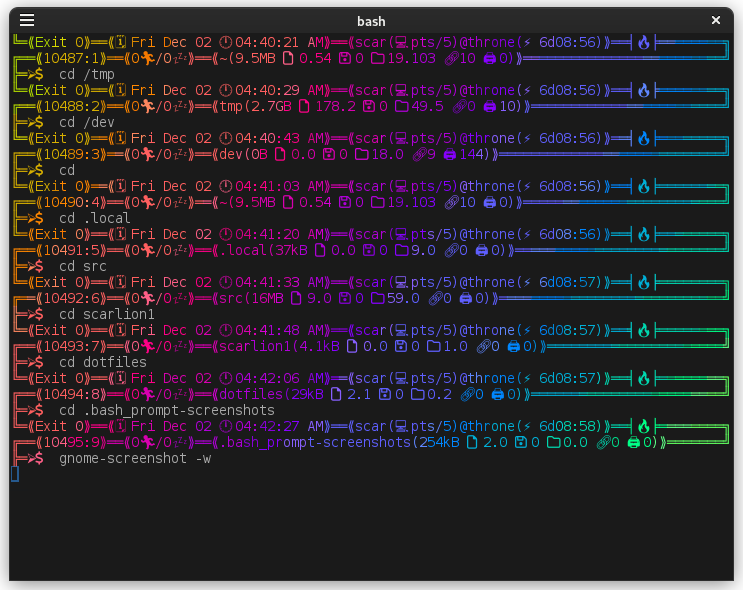
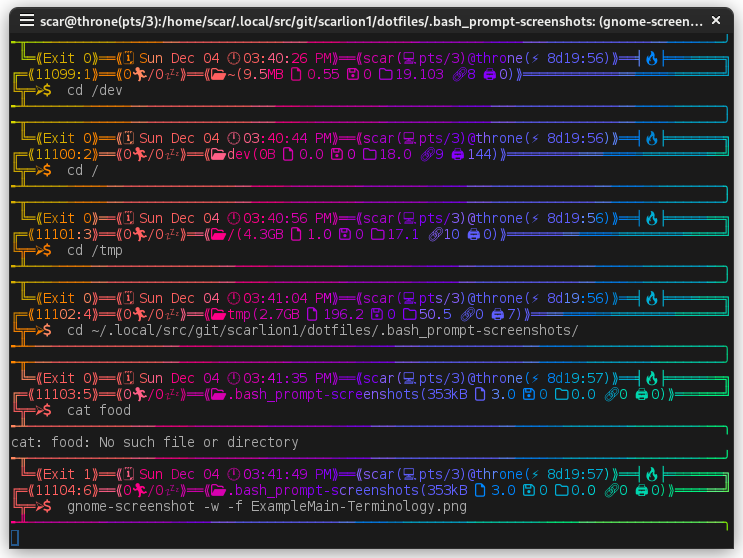
Added more rainbow and ridiculousness. Added color to linux console since it supports it. Added title and current running command to terminal windows. Updated README and screenshots.

Changed region(s): [[0.0, 0.0, 0.9906, 0.9749]]

diff --git a/README.md b/README.md
@@ -15,7 +15,13 @@ Should it now?  Actually, even the most basic color helps me find where a comman
 
 This is my ridiculous and over-the-top, yet still beautiful, Bash shell prompt.  I started out with Kevin's *rainbow-bash-prompt*[^1] 'and kept "improving" it.  It's fully rainbow in 24-bit color, using jaseg's *lolcat*[^2], each prompt gradually moving across the color spectrum.  It features UTF-8 characters and emoji, because it's nearly 2023 so why not.  I'm from the 90's though, so had to throwback to some box drawing characters.  I'm actually surprised it hasn't turned into a hot mess; everything displays quite nicely in *Gnome Terminal*.  I added fallback options too for when not in a graphical environment.
 
-The first line shows the exit status/code of the last command, date and time of completion of last command, current user, user's tty, short hostname, and the system's uptime.  It also features an eternal flame to make sure things keep running.  The second line shows the size of your command history, the command number for the current session, running jobs, sleeping jobs, current directory, and stats about the directory's contents: size of the data just in this directory (not including subdirectories), number of regular and hidden files, number of programs/executables, number of directories and hidden directories, number of links (visible plus hidden), and number of special files (block devices, character devices, pipes, and sockets)).  Finally, the third line is where you can actually enter your command!
+The first line shows the exit status/code of the last command, date and time of completion of last command, current user, user's tty, short hostname, and the system's uptime.  It also features an eternal flame to make sure things keep running.
+
+The second line shows the length of your command history, the command number for the current session, running jobs, sleeping jobs, current directory, and stats about the directory's contents: size of the data in this directory (not including subdirectories), number of regular and hidden files, number of programs/executables, number of directories and hidden directories, number of links (visible plus hidden), and number of special files (block devices, character devices, pipes, and sockets)).
+
+Finally, the third line is where you can actually enter your command!
+
+Everything is rounded off with fourth and fifth lines, giving the illusion of the prompt dropping the output of your command, only to gather it back up into the next prompt.  And in case your command doesn't have any output, the lines will connect nicely together to make sure everything continues.
 
 | ![Screenshot of main prompt in Gnome Terminal](.bash_prompt-screenshots/ExampleMain-GnomeTerminal.png?raw=true "Main prompt in Gnome Terminal") |
 | - |
@@ -25,12 +31,12 @@ The first line shows the exit status/code of the last command, date and time of 
 | - |
 | Main prompt in Terminology |
 
-| ![Screenshot of fallback prompt in Debian Console](.bash_prompt-screenshots/ExampleFallback-DebianConsole.png?raw=true "Fallback prompt in Debian Console") |
+| ![Screenshot of fallback prompt in Debian Console](.bash_prompt-screenshots/Example-DebianConsole.png?raw=true "Fallback prompt in Debian Console") |
 | - |
 | Fallback prompt in Debian Console |
 
 
-The most difficult part by far was figuring out how to pad the right ends of the first two lines so they remained connected, but I got it!  They will adapt to differing lengths of data displayed in the prompt as well as resizes of the terminal.  It's quite hacked together, with different snippets and ideas found over the Internet!  With the color/UTF-8 version, I had to manually offset the calculated padding for each line by a certain amount.  I think it has something to do with the Spiral Calendar (first on line 1) and Printer (last on line 2), since I had to add some spaces after those so the following text wasn't covered by the icon.  Either way, the implementation is quite consistent.  One problem I've seen so far is when the session command number increases from 9 to 10.  Another problem occurs if you descend into a directory with a really long name, forcing the second line to wrap.  Fortunately, these issues are quickly resolved by entering the next command or resizing your terminal (and entering the next command), respectively.
+The most difficult part by far was figuring out how to pad the right ends of the first two lines so they remained connected, but I got it!  They will adapt to differing lengths of data displayed in the prompt as well as resizes of the terminal.  It's quite hacked together, with different snippets and ideas found over the Internet!  With the color/UTF-8 version, I had to manually offset the calculated padding for each line by a certain amount.  I think it has something to do with the Spiral Calendar (first on line 1) and Printer (last on line 2), since I had to add some spaces after those so the following text wasn't covered by the icon.  Either way, the implementation is quite consistent.  One problem I've seen so far is when the session command number increases from 9 to 10 (and 99 to 100, etc.).  Another problem occurs if you descend into a directory with a really long name, forcing the second line to wrap.  Fortunately, these issues are quickly resolved by entering the next command or resizing your terminal (and entering the next command), respectively.
 
 This's my first time sharing something on github, so I'll probably now want to add repository status & info to the prompt somehow...
 
@@ -45,13 +51,16 @@ My *.bash_prompt* uses the following programs:
 - Non-standard
     - *lolcat* (jaseg's version[^2], specifically) (linked as `lolcat-c`)
 - Standard
-    - *date* (GNU *coreutils*)
+    - *cut* (GNU *coreutils*)
+    - *date* (  "  )
+    - *echo* (  "  )
     - *gawk* (GNU) (linked as `awk`)
-    - *grep* (GNU)
+    - *grep* ( " )
     - *ls* (GNU *coreutils*)
+    - *printf* (  "  )
     - *sed* (GNU)
     - *tty* (GNU *coreutils*)
-    - *wc* (GNU *coreutils*)
+    - *wc* (  "  )
 
 You'll also need an emoji font installed, such as [Noto Emoji](https://fonts.google.com/noto/specimen/Noto+Emoji) or [Noto Color Emoji](https://fonts.google.com/noto/specimen/Noto+Color+Emoji)
 
@@ -65,6 +74,7 @@ git clone https://github.com/scarlion1/dotfiles scarlion1/dotfiles
 mv ~/.bash_prompt ~/.bash_prompt.bak
 ln -s $(realpath scarlion1/dotfiles/.bash_prompt) ~/.bash_prompt
 ```
+Now `source ~/.bash_prompt` from your `~/.bashrc`
 
 [^1]: [dosentmatter/rainbow-bash-prompt](https://github.com/dosentmatter/rainbow-bash-prompt)
 [^2]: [jaseg/lolcat](https://github.com/jaseg/lolcat/)
